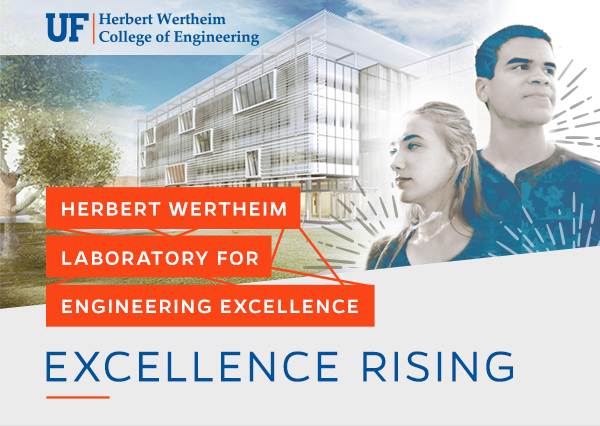
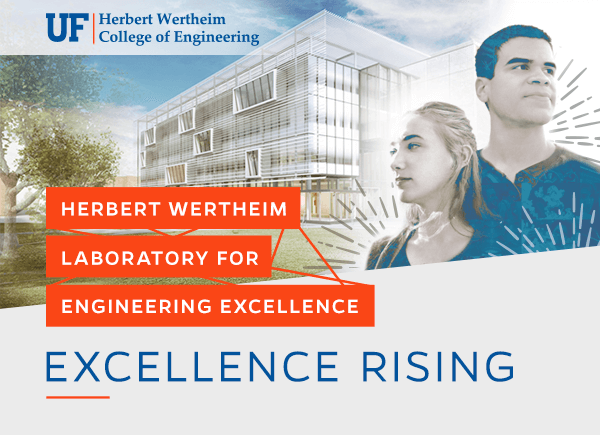
add alternate event title eblasts

diff --git a/groundbreaking/lab-launch.html b/groundbreaking/lab-launch.html
@@ -67,7 +67,7 @@
 		}
 		.header2 {
 			padding: 9px 0px;
-			color:#003663;
+			color:#005496;
 			font-family:Helvetica, Arial, sans-serif;
 			font-size:14px; 
 			line-height:22px;
@@ -80,6 +80,9 @@
 			font-size:14px;
 			line-height:22px;
 			color:#003663;	
+		}
+		.features {
+			color:#005496;
 		}
 		.highlight {
 			padding: 18px 0px;
@@ -222,7 +225,7 @@
 					</tr>
 					<tr>
 						<td class="img" bgcolor="#ebebeb">
-							<a href="https://www.eng.ufl.edu/about/transformation/herbert-wertheim-laboratory-for-engineering-excellence/" title="Save the date - Oct. 6, 2016" target="_blank"><img src="https://www.eng.ufl.edu/eblasts/groundbreaking/images/excellence-rising-header.png" align="left" alt="Save the date: October 6 | Excellence Rising" width="600" height="435" border="0" class="header-image" /></a>
+							<a href="https://www.eng.ufl.edu/about/transformation/herbert-wertheim-laboratory-for-engineering-excellence/" title="Save the date - Oct. 6, 2016" target="_blank"><img src="https://www.eng.ufl.edu/eblasts/groundbreaking/images/lab-launch-header.png" align="left" alt="Save the date: October 6 | Lab Launch" width="600" height="435" border="0" class="header-image" /></a>
 						</td>
 					</tr>
 					<tr>
@@ -230,12 +233,7 @@
 							<table border="0" width="100%" cellpadding="0" cellspacing="0" style="border-collapse:collapse;">
 								<tr>
 									<td class="header1">
-										Transformation begins at the heart of the UF campus.
-									</td>
-								</tr>
-								<tr>
-									<td class="header1">
-										<strong>Join us</strong> for a celebration of engineering excellence and Florida&rsquo;s emerging role in the global innovation economy. 
+										Designed for engineering excellence, UF&rsquo;s newest facility hails the dawning of a new era.
 									</td>
 								</tr>
 								<tr>
@@ -252,7 +250,12 @@
 								
 								<tr>
 									<td class="content">
-										The University of Florida&rsquo;s newest addition, the <strong>Herbert Wertheim Laboratory for Engineering Excellence</strong>, will be a monument to the public-private partnership that is Powering the New Engineer to Transform the Future! 
+										The <strong>Herbert Wertheim Laboratory for Engineering Excellence</strong> will be the flagship building for the Herbert Wertheim College of Engineering &ndash; recognizable around the world as a headquarters for engineering leadership, innovation and interdisciplinary research. 
+									</td>
+								</tr>
+								<tr>
+									<td class="content">
+										Come celebrate the launch of a new building, and a new era. <strong>We are Powering the New Engineer to Transform the Future!</strong>
 									</td>
 								</tr>
 								<tr>
@@ -261,27 +264,27 @@
 									</td>
 								</tr>
 								<tr>
-									<td class="content">
+									<td class="content features">
 										<strong>Classrooms and tools</strong> to benefit all engineering students, from freshman design labs to team-based learning facilities
 									</td>
 								</tr>
 								<tr>
-									<td class="content">
+									<td class="content features">
 										Faculty and student <strong>collision spaces</strong> to encourage cross-disciplinary collaboration
 									</td>
 								</tr>
 								<tr>
-									<td class="content">
+									<td class="content features">
 										State-of-the-art <strong>biotech lab</strong> to engineer solutions to overcome cancer, cardiovascular and muscular system disorders, and neurodegenerative diseases
 									</td>
 								</tr>
 								<tr>
-									<td class="content">
+									<td class="content features">
 										<strong>Prototyping labs</strong> to enhance hands-on learning while bringing big ideas to fruition
 									</td>
 								</tr>
 								<tr>
-									<td class="content">
+									<td class="content features">
 										Immersive <strong>telepresence facility</strong> to build 21st century communication and networking skills
 									</td>
 								</tr>
